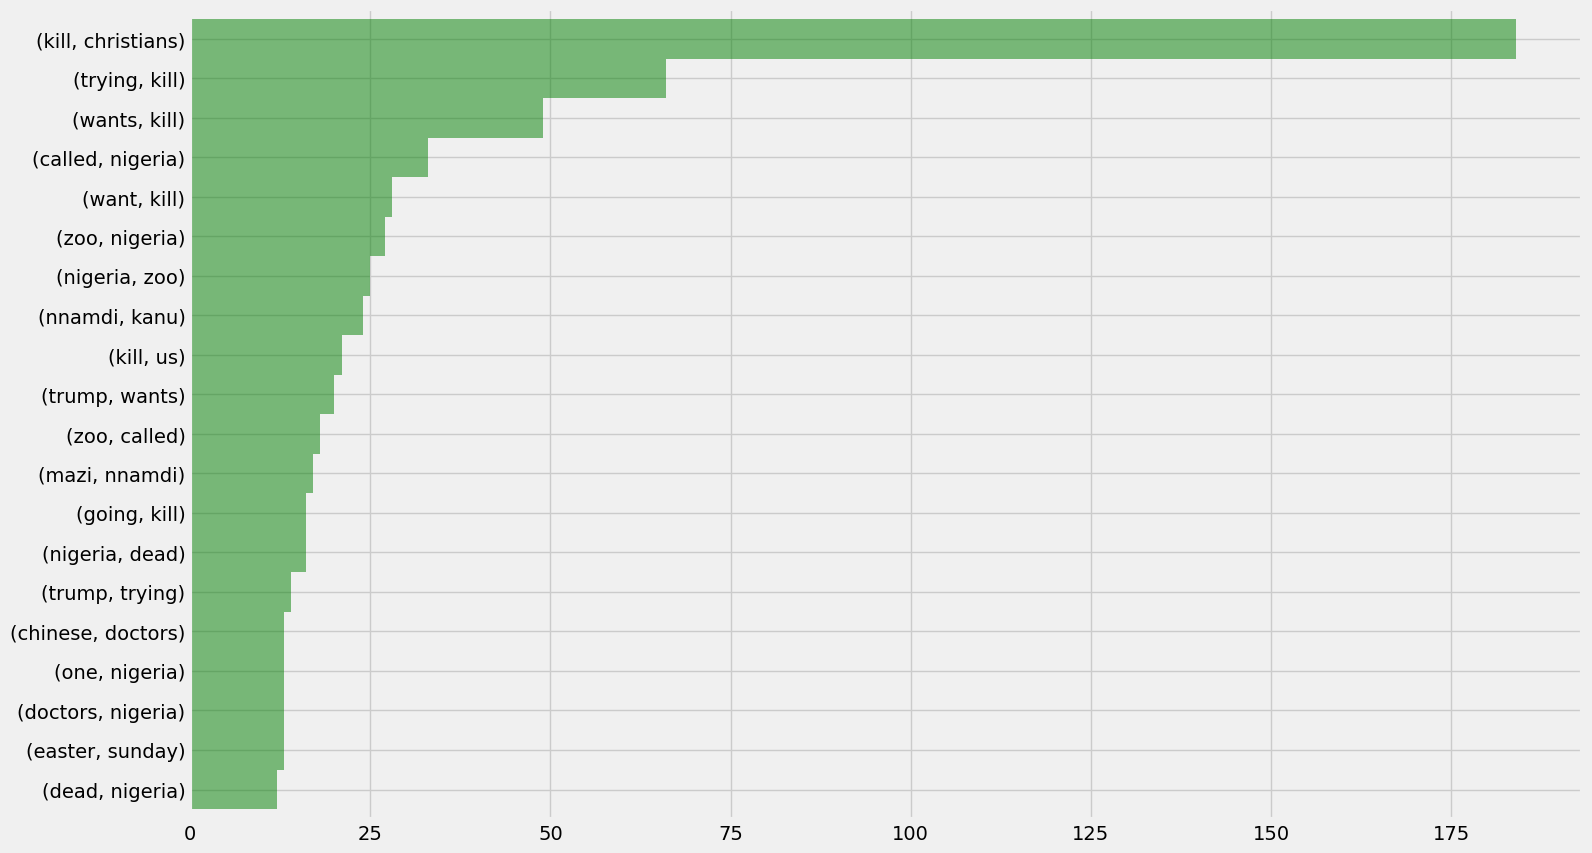
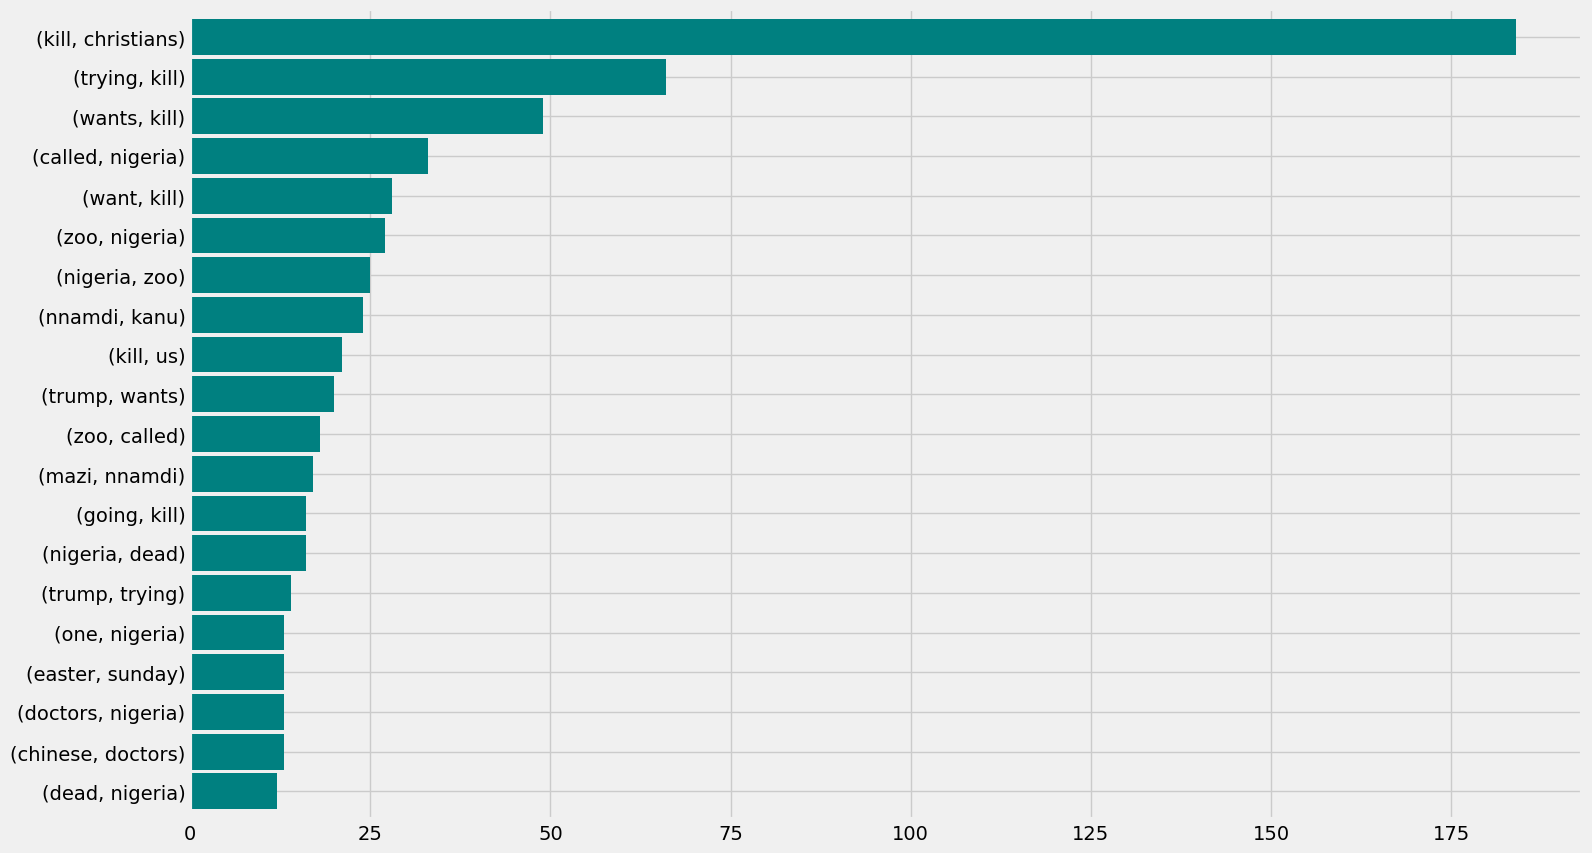
Add finishing touches to (tristate) chart generators

Changed region(s): [[0.0, 0.0, 0.9541, 0.9754]]

diff --git a/pre_training.py b/pre_training.py
@@ -77,7 +77,7 @@ def create_class_dist(df):
     ax.set_xlim([-0.1, 3])
     ax.set_xticks([0.5, 1.5, 2.5])
     ax.set_xticklabels(["Neutral Speech", "Hate Speech", "Offensive Speech"])
-    ax.hist(df_polarity, bins=[0, 1.0, 2.0, 2.9], width=0.9, color="green", alpha=0.5)
+    ax.hist(df_polarity, bins=[0, 1.0, 2.0, 2.9], width=0.9, color="teal")
 
     plt.savefig(DATA_DIR / "distribution_of_classes.png", bbox_inches="tight")
     plt.close()
@@ -100,7 +100,7 @@ def create_wordcloud(df, outfile, colormap=None):
 def create_modal_bigrams(df, outfile, n=20):
     fig, ax = plt.subplots(figsize=(16, 10))
     bigram_series = pd.Series(_get_bigrams(df)).value_counts()[:n]
-    bigram_series.sort_values().plot.barh(color="green", alpha=0.5, width=1, ax=ax)
+    bigram_series.sort_values().plot.barh(color="teal", width=0.9, ax=ax)
     plt.savefig(outfile, bbox_inches="tight")
     plt.close()
 
@@ -108,7 +108,7 @@ def create_modal_bigrams(df, outfile, n=20):
 def create_modal_trigrams(df, outfile, n=20):
     fig, ax = plt.subplots(figsize=(16, 10))
     bigram_series = pd.Series(_get_trigrams(df)).value_counts()[:n]
-    bigram_series.sort_values().plot.barh(color="green", alpha=0.5, width=1, ax=ax)
+    bigram_series.sort_values().plot.barh(color="teal", width=0.9, ax=ax)
     plt.savefig(outfile, bbox_inches="tight")
     plt.close()
 
@@ -147,9 +147,9 @@ if __name__ == "__main__":
     df_hate = df[df["Polarity"] == 1]
     df_offensive = df[df["Polarity"] == 2]
 
-    print(f"Num neut: {df_neutral.shape[0]:>5}")
-    print(f"Num hate: {df_hate.shape[0]:>5}")
-    print(f"Num offe: {df_offensive.shape[0]:>5}")
+    print(f"Num neutral:   {df_neutral.shape[0]:>5}")
+    print(f"Num hate:      {df_hate.shape[0]:>5}")
+    print(f"Num offensive: {df_offensive.shape[0]:>5}")
 
     # create class distribution
     print()
